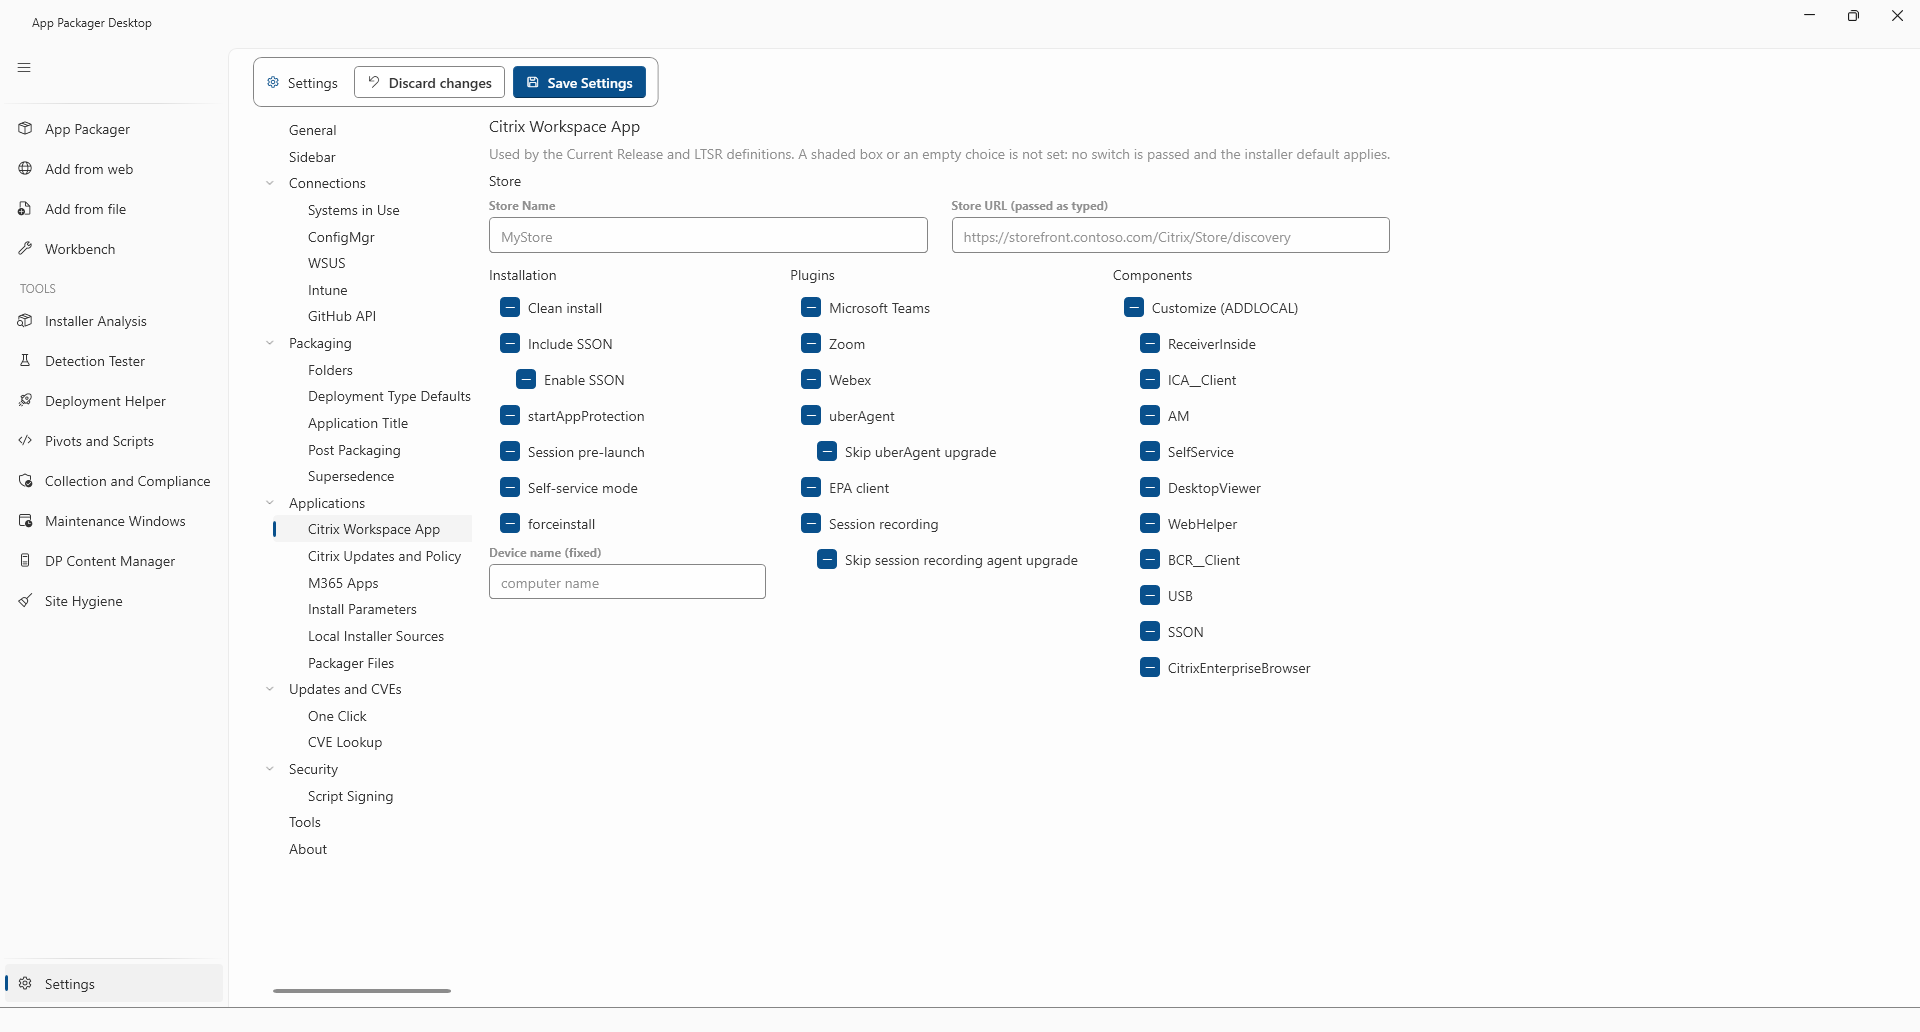
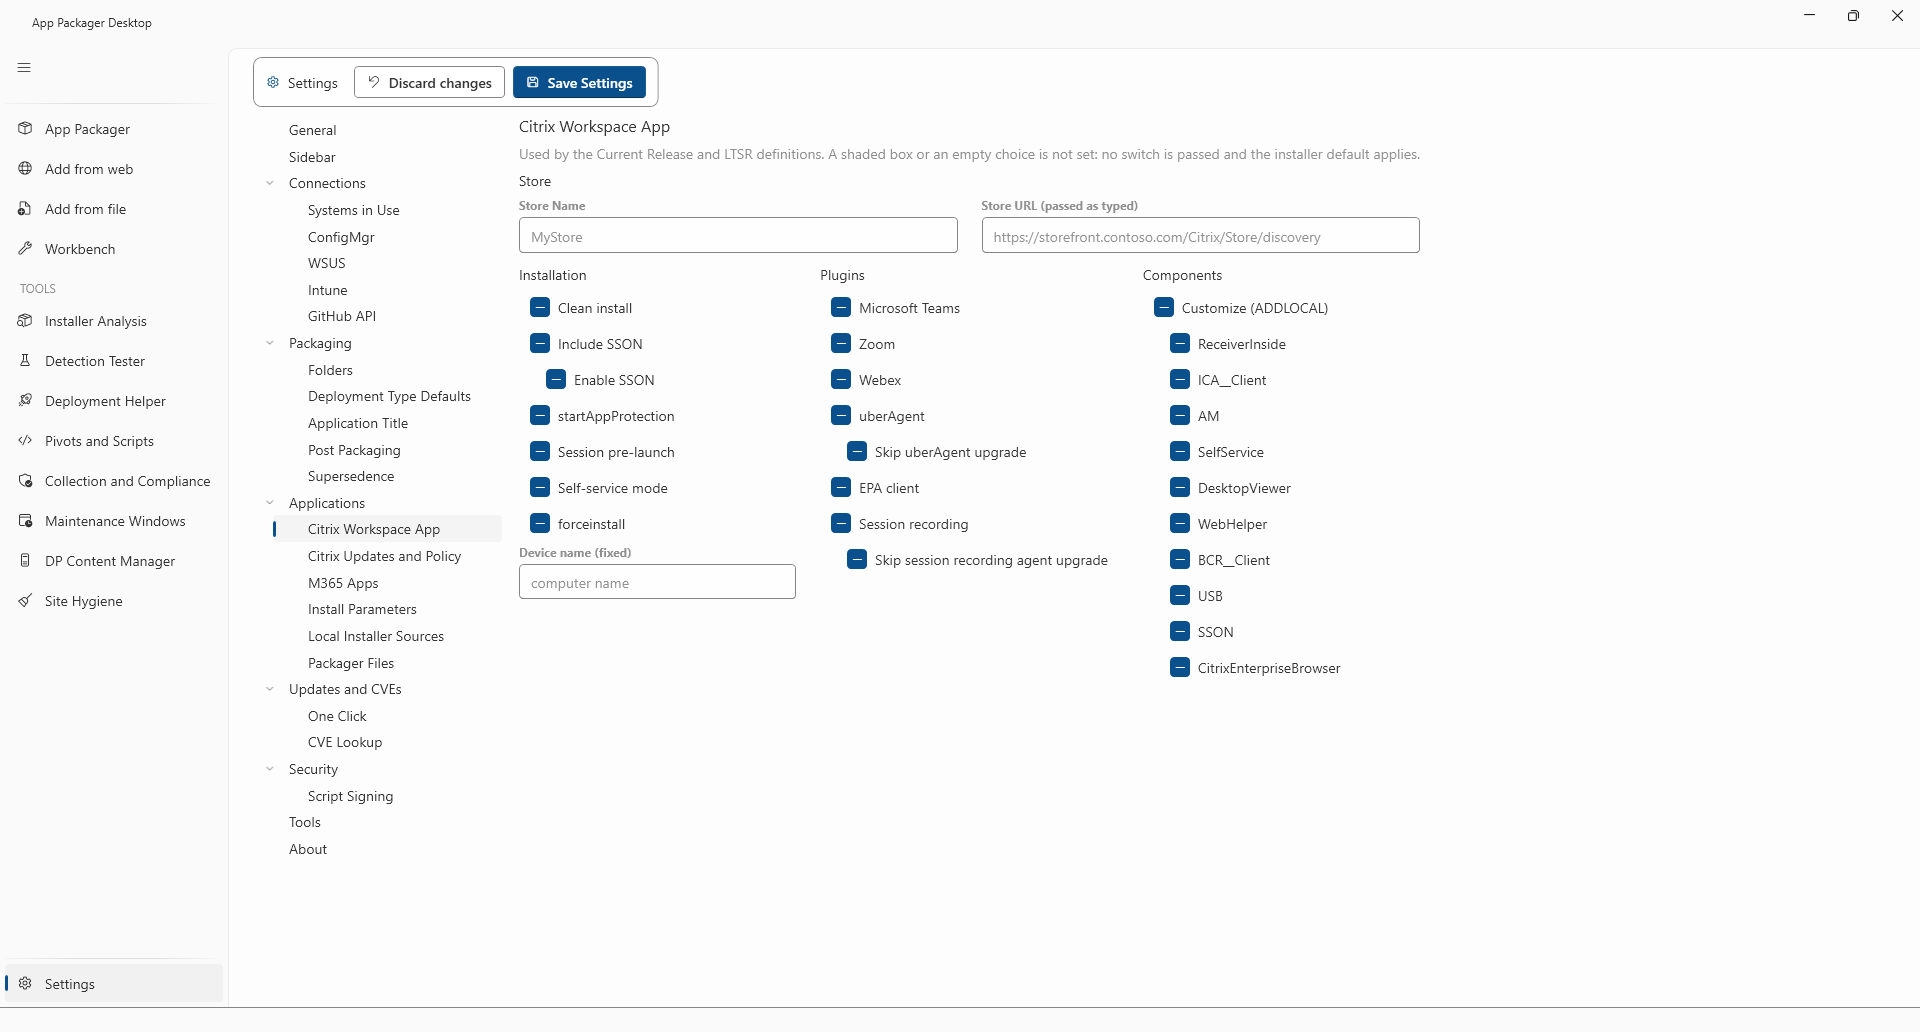
Settings: the list of pages fits its names; a splitter changes its width (Q-88) (#219)

Changed region(s): [[0.25, 0.124, 0.7188, 0.5891], [0.5, 0.186, 0.6875, 0.6822], [0.4062, 0.2481, 0.5625, 0.5581]]

diff --git a/src/ApplicationPackagerUI/Views/Pages/SettingsPage.xaml b/src/ApplicationPackagerUI/Views/Pages/SettingsPage.xaml
@@ -67,10 +67,11 @@
 
         <Grid Grid.Row="1">
             <Grid.ColumnDefinitions>
-                <ColumnDefinition Width="220" />
+                <ColumnDefinition Width="250" MinWidth="240" MaxWidth="420" />
+                <ColumnDefinition Width="16" />
                 <ColumnDefinition Width="*" />
             </Grid.ColumnDefinitions>
-            <TreeView x:Name="OptionsTree" Grid.Column="0" Margin="0,0,0,8" AutomationProperties.AutomationId="tvOptions"
+            <TreeView x:Name="OptionsTree" Grid.Column="0" Margin="0,0,0,8" AutomationProperties.AutomationId="tvOptions" ScrollViewer.HorizontalScrollBarVisibility="Disabled"
                       SelectedItemChanged="OptionsTree_SelectedItemChanged">
                 <TreeViewItem Header="General" Tag="general" IsSelected="True" AutomationProperties.AutomationId="nav_general" />
                 <TreeViewItem Header="Sidebar" Tag="sidebar" AutomationProperties.AutomationId="nav_sidebar" />
@@ -107,7 +108,11 @@
                 <TreeViewItem Header="About" Tag="about" AutomationProperties.AutomationId="nav_about" />
             </TreeView>
 
-            <Grid Grid.Column="1" Margin="16,0,0,0">
+            <GridSplitter x:Name="NavigationSplitter" Grid.Column="1" Width="16" HorizontalAlignment="Center" VerticalAlignment="Stretch"
+                          ResizeDirection="Columns" ResizeBehavior="PreviousAndNext" Background="Transparent" Focusable="False"
+                          ToolTip="Drag to change the width of the list of pages." />
+
+            <Grid Grid.Column="2">
             <ScrollViewer x:Name="page_general" Visibility="Visible" VerticalScrollBarVisibility="Auto">
                 <StackPanel Margin="0,0,0,8" MaxWidth="960" HorizontalAlignment="Left">
                     <TextBlock Text="General" Style="{StaticResource SectionHeader}" />

diff --git a/tests/ApplicationPackagerEngine.Tests/SettingsPaneFitTests.cs b/tests/ApplicationPackagerEngine.Tests/SettingsPaneFitTests.cs
@@ -1,0 +1,81 @@
+using System.Windows;
+using System.Windows.Controls;
+using System.Windows.Controls.Primitives;
+using ApplicationPackagerEngine.Tests.Compliance;
+using ApplicationPackagerUI.Views.Pages;
+using Wpf.Ui.Appearance;
+using static ApplicationPackagerEngine.Tests.Compliance.RenderKit;
+using TreeView = System.Windows.Controls.TreeView;
+
+namespace ApplicationPackagerEngine.Tests;
+
+/// <summary>
+/// The tree pane of Settings fits its names without a horizontal scroll bar at every size of the main window, in both themes,
+/// and a splitter lets the user change its width (Q-88).
+/// </summary>
+[Collection(ProcessEnvironmentCollection.Name)]
+public sealed class SettingsPaneFitTests
+{
+    /// <summary>The smallest main window (MinWidth 900, MinHeight 600), a 1440x900 display and the 1920x1032 work area of a 1080p display.</summary>
+    private static readonly (int Width, int Height)[] Sizes = [(900, 600), (1440, 900), (1920, 1032)];
+
+    private const double NavigationPaneWidth = 230;
+    private const double FrameHeight = 48;
+
+    public static TheoryData<ApplicationTheme, int, int> Cases()
+    {
+        var data = new TheoryData<ApplicationTheme, int, int>();
+        foreach (var theme in new[] { ApplicationTheme.Light, ApplicationTheme.Dark })
+            foreach (var (width, height) in Sizes)
+                data.Add(theme, width, height);
+        return data;
+    }
+
+    [Theory]
+    [MemberData(nameof(Cases))]
+    public void TheTreePaneShowsNoHorizontalScrollBar(ApplicationTheme theme, int width, int height)
+    {
+        PageHeaderRenderTests.With("Settings", theme, () =>
+        {
+            using var host = new PageHeaderRenderTests();
+            var (page, _) = host.Create("Settings");
+            var settings = (SettingsPage)page;
+            var window = new Window { Width = width - NavigationPaneWidth, Height = height - FrameHeight, WindowStyle = WindowStyle.None, Content = page };
+            Show(window);
+            try
+            {
+                Settle(window);
+                var where = $"{theme} {width}x{height}";
+                var tree = (TreeView)settings.FindName("OptionsTree");
+                var bars = Descendants(tree).OfType<ScrollViewer>()
+                    .Where(s => s.ComputedHorizontalScrollBarVisibility == Visibility.Visible)
+                    .Select(s => $"{s.ExtentWidth:0.0} px of content in {s.ViewportWidth:0.0} px").ToList();
+                Assert.True(bars.Count == 0, $"{where}: the tree pane scrolls sideways ({string.Join("; ", bars)})");
+
+                var widest = Descendants(tree).OfType<TreeViewItem>().Max(i => i.DesiredSize.Width);
+                Assert.True(widest <= tree.ActualWidth + 0.5, $"{where}: the widest name needs {widest:0.0} px in a {tree.ActualWidth:0.0} px pane");
+            }
+            finally { window.Close(); }
+        });
+    }
+
+    [Fact]
+    public void ASplitterLetsTheUserChangeTheWidthOfTheTreePane()
+    {
+        PageHeaderRenderTests.With("Settings", ApplicationTheme.Light, () =>
+        {
+            using var host = new PageHeaderRenderTests();
+            var (page, _) = host.Create("Settings");
+            var window = new Window { Width = 1920 - NavigationPaneWidth, Height = 1032 - FrameHeight, WindowStyle = WindowStyle.None, Content = page };
+            Show(window);
+            try
+            {
+                Settle(window);
+                var splitter = Descendants(page).OfType<GridSplitter>().SingleOrDefault();
+                Assert.NotNull(splitter);
+                Assert.True(splitter!.ActualWidth >= 4, $"The splitter is {splitter.ActualWidth:0.0} px wide; it is hard to grab");
+            }
+            finally { window.Close(); }
+        });
+    }
+}

diff --git a/CHANGELOG.md b/CHANGELOG.md
@@ -18,6 +18,7 @@
 
 ### Fixed
 
+- Settings: the list of pages no longer needs a horizontal scroll bar. The list is 250 px wide at the start, and a handle between the list and the page changes its width.
 - Fix the icon pack update that failed with a file in use error while the Packages page showed the icons. The page no longer keeps an icon file open, and it shows the new icons after the update without a restart.
 - A cancelled run names itself and says nothing about finishing. Check ConfigMgr, Check Latest and Check CVEs log "Check ConfigMgr cancelled: N of M products checked." (and the same for the other two), and One Click logs "One Click cancelled: N of M products done." The wording is the wording of the PowerShell app.
 

diff --git a/docs/core/settings-page.md b/docs/core/settings-page.md
@@ -1,6 +1,6 @@
 # Settings page
 
-The Settings page holds the settings of App Packager Desktop. This page describes each section in the order that the page shows it.
+The Settings page holds the settings of App Packager Desktop. This page describes each section in the order that the page shows it. The list of sections is on the left. To change the width of the list, drag the handle between the list and the section.
 
 ## What it does
 
